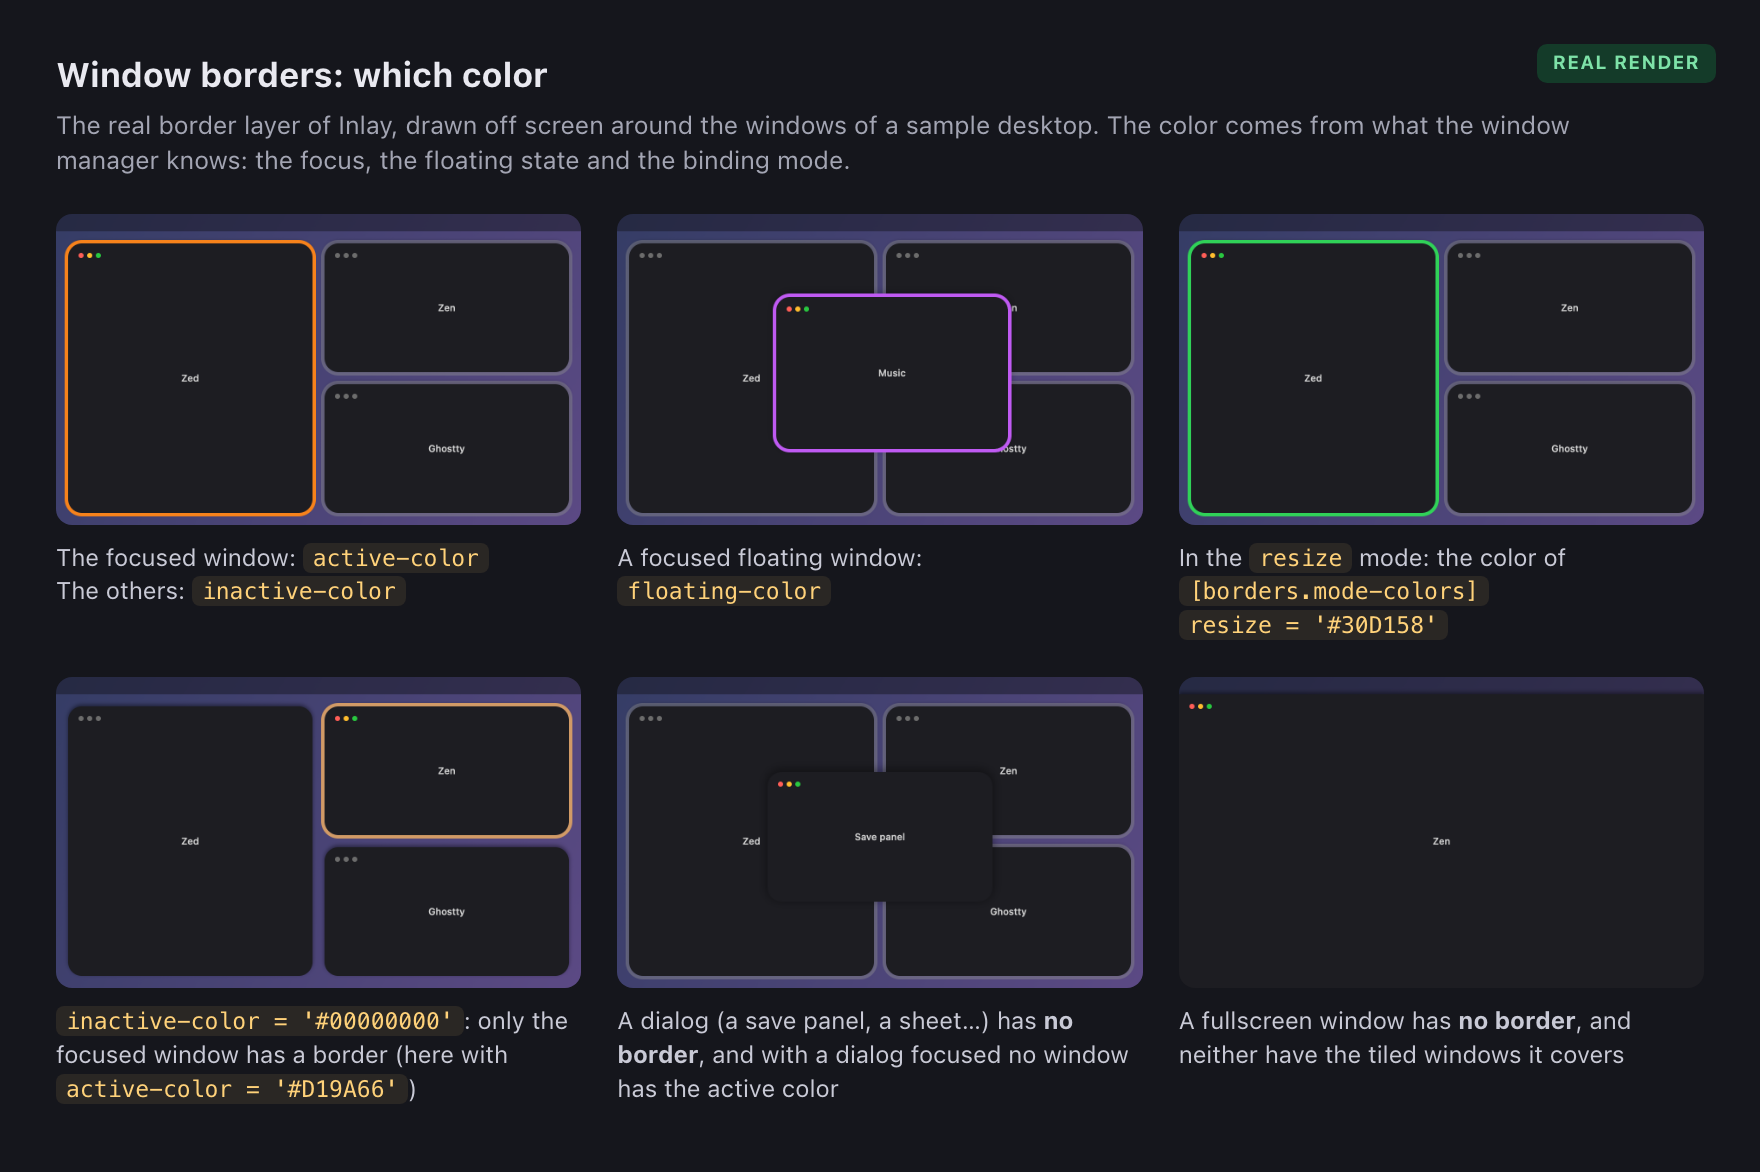
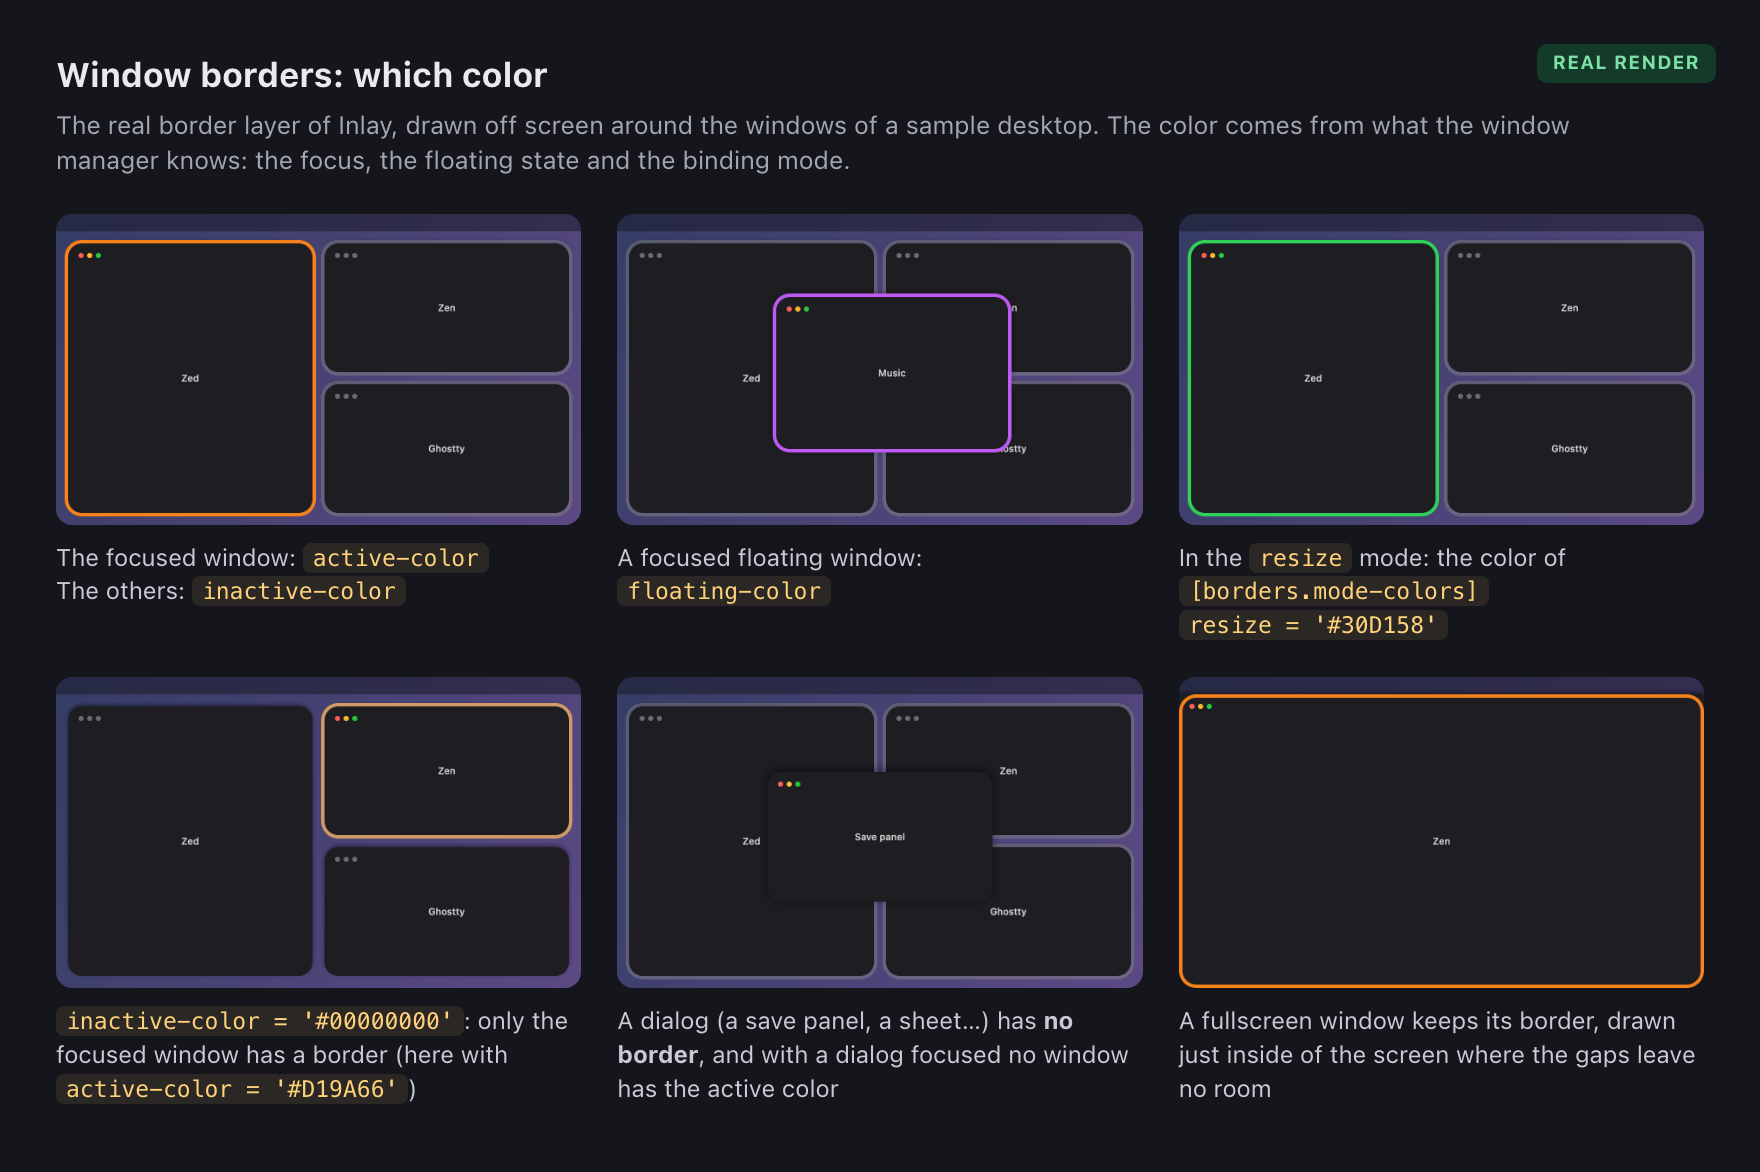
Keep the border of a fullscreen window

Changed region(s): [[0.6562, 0.8294, 0.9688, 0.9522], [0.6875, 0.5836, 0.9688, 0.6143]]

diff --git a/Sources/AppBundle/borders/BordersSnapshot.swift b/Sources/AppBundle/borders/BordersSnapshot.swift
@@ -68,7 +68,9 @@ extension BordersSnapshot {
     /// the tiling ones, and the normal windows that float. No heuristics of its own: everything comes from the tree,
     /// and from what the window was taken for when it was detected.
     ///
-    /// Left out: the fullscreen window and the tiling windows that it covers, the windows in the macOS native fullscreen,
+    /// The fullscreen window keeps its border, pulled inside of the screen where the outer gaps leave no room for it.
+    ///
+    /// Left out: the tiling windows that a fullscreen window covers, the windows in the macOS native fullscreen,
     /// the minimized ones, the ones of hidden apps, popups, the dialogs and sheets that float on their own,
     /// the windows of the invisible workspaces, and the window that is being moved or resized with the mouse
     @MainActor
@@ -86,21 +88,26 @@ extension BordersSnapshot {
         }
         for monitor in monitorInfos {
             let workspace = monitor.activeWorkspace
-            // The fullscreen window has no lastAppliedLayoutPhysicalRect. The other tiling windows are behind it,
-            // but their borders would stick out in the outer gaps
-            if workspace.rootTilingContainer.mostRecentWindowRecursive?.isFullscreen != true {
+            let area = monitor.visibleRectPaddedByOuterGaps
+            // The border is drawn outside of the frame: around a window that fills the screen it needs to be pulled in
+            let room = monitor.visibleRect.insetBy(config.borders.width)
+            // The fullscreen window has no lastAppliedLayoutPhysicalRect: the layout gives it the whole monitor.
+            // The other tiling windows are behind it, and their borders would stick out in the outer gaps
+            if let fullscreen = workspace.rootTilingContainer.mostRecentWindowRecursive, fullscreen.isFullscreen {
+                let rect = fullscreen.noOuterGapsInFullscreen ? monitor.visibleRect : area
+                add(fullscreen, rect.intersection(room), isFloating: false)
+            } else {
                 for window in workspace.rootTilingContainer.allLeafWindowsRecursive {
                     if let rect = window.lastAppliedLayoutPhysicalRect { add(window, rect, isFloating: false) }
                 }
             }
-            let area = monitor.visibleRectPaddedByOuterGaps
             for window in workspace.floatingWindowsContainer.children.filterIsInstance(of: Window.self) {
                 // A dialog comes and goes with the window it belongs to. Only the windows that the user sees as windows
                 // are decorated. A dialog that the user made a tiling window is in the tiling tree, and it has a border there
                 guard window.detectedType != .dialog, let rect = window.lastKnownFloatingRect else { continue }
                 // A floating window that was made fullscreen
                 let coversMonitor = rect.minX <= area.minX && rect.minY <= area.minY && rect.maxX >= area.maxX && rect.maxY >= area.maxY
-                if !coversMonitor { add(window, rect, isFloating: true) }
+                add(window, coversMonitor ? rect.intersection(room) : rect, isFloating: true)
             }
         }
         return result

diff --git a/Tests/InlayTests/borders/BordersSnapshotTest.swift b/Tests/InlayTests/borders/BordersSnapshotTest.swift
@@ -162,11 +162,27 @@ extension InlayTests {
             try await workspace.layoutWorkspace()
             assertEquals(summary().count, 3)
 
-            // The fullscreen window has no border, and neither have the tiling windows behind it.
-            // The floating window is above it and keeps its border
+            // The fullscreen window keeps its border; the tiling windows behind it have none.
+            // The floating window is above it and keeps its border too
             window1.isFullscreen = true
             try await workspace.layoutWorkspace()
-            assertEquals(summary(), ["3 \(inactive)"])
+            assertEquals(summary(), ["1 \(accent)", "3 \(inactive)"])
+            // No outer gaps in the tests: the border is pulled inside of the screen, by its own width
+            let width = config.borders.width
+            let screen = workspace.workspaceMonitor.visibleRect
+            assertEquals(BordersSnapshot.fromModel().items.first?.frame, CGRect(
+                x: screen.topLeftX + width, y: screen.topLeftY + width, width: screen.width - 2 * width, height: screen.height - 2 * width,
+            ))
+            // With outer gaps as wide as the border, it fits around the window as it is
+            config.gaps.outer = .init(left: 8, bottom: 8, top: 8, right: 8)
+            assertEquals(BordersSnapshot.fromModel().items.first?.frame, CGRect(
+                x: screen.topLeftX + 8, y: screen.topLeftY + 8, width: screen.width - 16, height: screen.height - 16,
+            ))
+            // 'fullscreen --no-outer-gaps' fills the screen, whatever the gaps are
+            window1.noOuterGapsInFullscreen = true
+            assertEquals(BordersSnapshot.fromModel().items.first?.frame.minX, screen.topLeftX + width)
+            window1.noOuterGapsInFullscreen = false
+            config.gaps = .zero
 
             window1.isFullscreen = false
             try await workspace.layoutWorkspace()
@@ -180,9 +196,12 @@ extension InlayTests {
             floating.isFullscreen = true
             try await workspace.layoutWorkspace()
             assertEquals(summary(), [])
-            // The layout forgets that a floating window is fullscreen, but the window still covers the monitor
+            // The layout forgets that a floating window is fullscreen, but the window still covers the monitor:
+            // it has its border, inside of the screen
             try await workspace.layoutWorkspace()
-            assertEquals(summary(), [])
+            assertEquals(summary(), ["1 #BF5AF2"])
+            let width = config.borders.width
+            assertEquals(BordersSnapshot.fromModel().items.first?.frame.minX, workspace.workspaceMonitor.visibleRect.topLeftX + width)
         }
 
         @Test func testUnconventionalWindows() async throws {

diff --git a/docs/images/src/borders-states.html b/docs/images/src/borders-states.html
@@ -9,7 +9,7 @@
 <div class="sheet"><span class="tag real">Real render</span>
   <h1>Window borders: which color</h1>
   <div class="sub">The real border layer of Inlay, drawn off screen around the windows of a sample desktop. The color comes from what the window manager knows: the focus, the floating state and the binding mode.</div>
-  <div class="grid"><div class="cell"><img src="render/borders/borders-active-inactive.png"><div class="cap">The focused window: <code>active-color</code><br>The others: <code>inactive-color</code></div></div><div class="cell"><img src="render/borders/borders-floating-focused.png"><div class="cap">A focused floating window: <code>floating-color</code></div></div><div class="cell"><img src="render/borders/borders-mode-resize.png"><div class="cap">In the <code>resize</code> mode: the color of<br><code>[borders.mode-colors]</code> <code>resize = '#30D158'</code></div></div><div class="cell"><img src="render/borders/borders-only-active.png"><div class="cap"><code>inactive-color = '#00000000'</code>: only the focused window has a border (here with <code>active-color = '#D19A66'</code>)</div></div><div class="cell"><img src="render/borders/borders-dialog.png"><div class="cap">A dialog (a save panel, a sheet…) has <b>no border</b>, and with a dialog focused no window has the active color</div></div><div class="cell"><img src="render/borders/borders-fullscreen.png"><div class="cap">A fullscreen window has <b>no border</b>, and neither have the tiled windows it covers</div></div></div>
+  <div class="grid"><div class="cell"><img src="render/borders/borders-active-inactive.png"><div class="cap">The focused window: <code>active-color</code><br>The others: <code>inactive-color</code></div></div><div class="cell"><img src="render/borders/borders-floating-focused.png"><div class="cap">A focused floating window: <code>floating-color</code></div></div><div class="cell"><img src="render/borders/borders-mode-resize.png"><div class="cap">In the <code>resize</code> mode: the color of<br><code>[borders.mode-colors]</code> <code>resize = '#30D158'</code></div></div><div class="cell"><img src="render/borders/borders-only-active.png"><div class="cap"><code>inactive-color = '#00000000'</code>: only the focused window has a border (here with <code>active-color = '#D19A66'</code>)</div></div><div class="cell"><img src="render/borders/borders-dialog.png"><div class="cap">A dialog (a save panel, a sheet…) has <b>no border</b>, and with a dialog focused no window has the active color</div></div><div class="cell"><img src="render/borders/borders-fullscreen.png"><div class="cap">A fullscreen window keeps its border, drawn just inside of the screen where the gaps leave no room</div></div></div>
 </div>
 <script>fillToml();</script>
 </body></html>

diff --git a/Sources/AppBundle/borders/BorderSamples.swift b/Sources/AppBundle/borders/BorderSamples.swift
@@ -106,8 +106,11 @@ private struct BorderScene {
 
     /// The borders of the scene, decided by the same code that decides them for the real windows
     func snapshot(systemAccent: Rgba) -> BordersSnapshot {
-        let candidates = windows.filter { !$0.isFullscreen && !$0.isDialog }
-            .map { BorderCandidate(windowId: $0.id, frame: $0.frame, isFocused: $0.isFocused, isFloating: $0.isFloating) }
+        // A fullscreen window fills the screen: its border is pulled in by its own width, as candidatesFromModel does
+        let candidates = windows.filter { !$0.isDialog }.map {
+            let frame = $0.isFullscreen ? $0.frame.insetBy(dx: config.width, dy: config.width) : $0.frame
+            return BorderCandidate(windowId: $0.id, frame: frame, isFocused: $0.isFocused, isFloating: $0.isFloating)
+        }
         return BordersSnapshot.resolve(candidates, config, mode: mode, systemAccent: systemAccent)
     }
 }

diff --git a/Sources/AppBundle/model/Rect.swift b/Sources/AppBundle/model/Rect.swift
@@ -56,6 +56,18 @@ extension Rect {
 
     var minY: CGFloat { topLeftY }
     var maxY: CGFloat { topLeftY + height }
+    /// The rect without a margin of `inset` points on its four sides
+    func insetBy(_ inset: CGFloat) -> Rect {
+        Rect(topLeftX: topLeftX + inset, topLeftY: topLeftY + inset, width: width - 2 * inset, height: height - 2 * inset)
+    }
+
+    /// The part of the rect that is inside of `other`. An empty rect when they don't overlap
+    func intersection(_ other: Rect) -> Rect {
+        let x = max(minX, other.minX)
+        let y = max(minY, other.minY)
+        return Rect(topLeftX: x, topLeftY: y, width: min(maxX, other.maxX) - x, height: min(maxY, other.maxY) - y)
+    }
+
     var minX: CGFloat { topLeftX }
     var maxX: CGFloat { topLeftX + width }
 

diff --git a/README.md b/README.md
@@ -540,7 +540,7 @@ Inlay draws a colored border around each managed window (tiled or floating) of t
 color comes from the state the manager already knows, with no focus heuristics. It is configured in the
 `[borders]` table (`inlay config --explain borders` documents it), or in the **Borders** tab of Settings.
 
-<p align="center"><img src="docs/images/borders-states.png" alt="Real render of the window borders in six cases, around the windows of a sample desktop. The focused window with an orange border (active-color) and the others with a gray one (inactive-color); a focused floating window with a purple border (floating-color); the focused window with a green border in the resize mode, from [borders.mode-colors]; only the focused window with a border, with inactive-color = '#00000000'; a focused dialog without a border, and no window with the active color; and a fullscreen window without a border" width="880"></p>
+<p align="center"><img src="docs/images/borders-states.png" alt="Real render of the window borders in six cases, around the windows of a sample desktop. The focused window with an orange border (active-color) and the others with a gray one (inactive-color); a focused floating window with a purple border (floating-color); the focused window with a green border in the resize mode, from [borders.mode-colors]; only the focused window with a border, with inactive-color = '#00000000'; a focused dialog without a border, and no window with the active color; and a fullscreen window with its border, drawn just inside of the screen" width="880"></p>
 
 | Key | Values | Default |
 |---|---|---|
@@ -613,7 +613,9 @@ The details:
   windows use `inactive-color`.
 - A **fully transparent** color (`'#00000000'`) means "no border": with
   `inactive-color = '#00000000'` only the active window has a border.
-- **No border**: fullscreen windows (Inlay's and the native one of macOS) and the tiled windows they cover,
+- A **fullscreen** window (the `fullscreen` command) keeps its border. Where the outer gaps leave no room for
+  it, as with `fullscreen --no-outer-gaps`, it is drawn just inside of the screen.
+- **No border**: windows in the native fullscreen of macOS, the tiled windows that a fullscreen window covers,
   minimized windows, windows of hidden apps, popups, the ones of non-visible workspaces, and the window you are
   dragging or resizing with the mouse (the border comes back on release).
 - **Dialogs and sheets, no border**: only normal windows, tiled or floating, have a border. What Inlay
